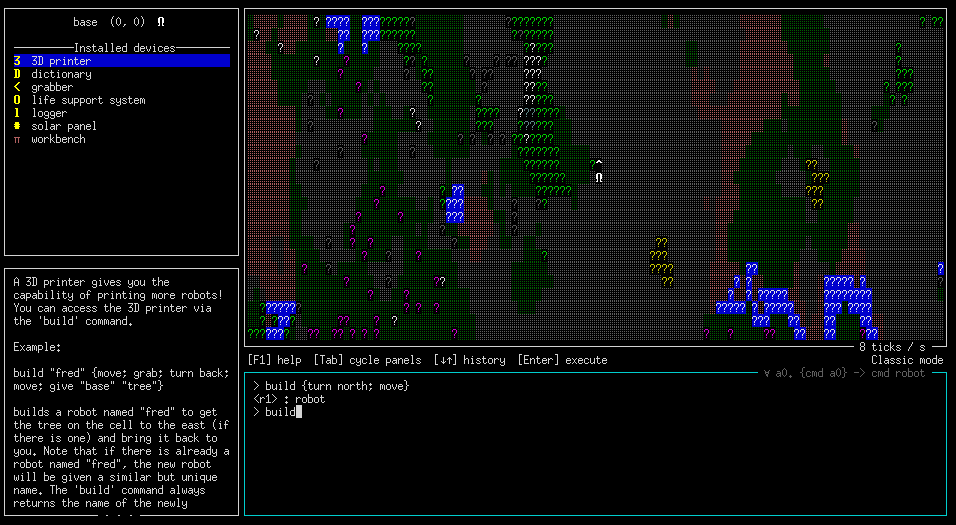
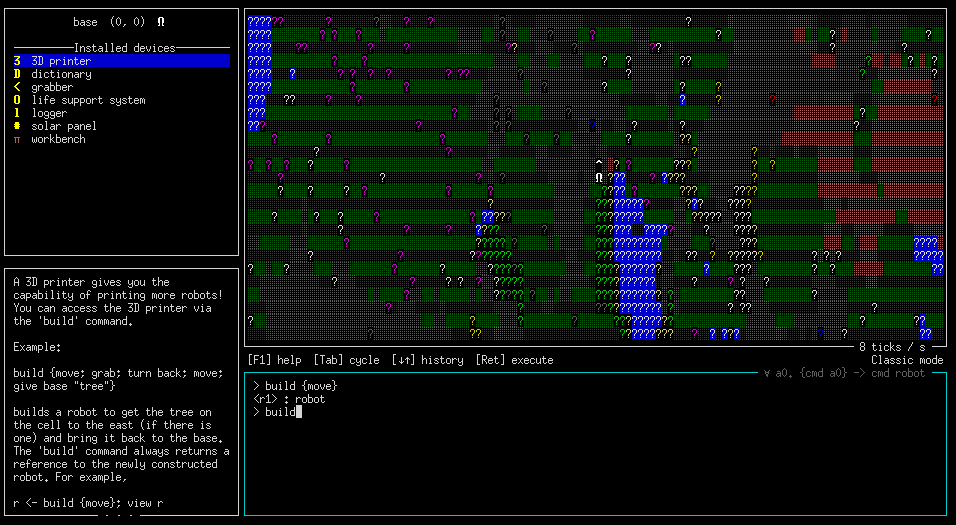
put base in a 32x32 patch with all necessary starting resources (#412)
Fixes #385 .  Note, we will need to update `TUTORIAL.md` since this changes what world 0 looks like, but I wanted to get some feedback before launching into updating that.

diff --git a/TUTORIAL.md b/TUTORIAL.md
@@ -251,9 +251,9 @@ which you may have noticed in the recently viewed robot's inventory.
 You can `scan` items in the world to learn about them, and later
 `upload` what you have learned to the base.
 
-Let's build a robot to learn about those green `?` things to the west:
+Let's build a robot to learn about those green `?` things to the south:
 ```
-build {turn left; m4; move; scan forward; turn back; m4; upload base}
+build {turn back; m; scan forward; upload base}
 ```
 The `turn` command we used to turn the robot takes a direction as an
 argument, which can be either a relative direction (`forward`, `back`,
@@ -285,14 +285,14 @@ Getting some resources
 
 So those tree things look like they might be useful.  Let's get one!
 ```
-build {turn west; m8; thing <- grab; turn back; m8; give base thing }
+build {turn back; m2; thing <- grab; turn back; m2; give base thing }
 ```
 You can see that the
 `grab` command returns the name of the thing it grabbed, which is
 especially helpful when grabbing something unknown. (In this case we
-also could have just written `...; grab; ...; give "base" "tree"; ...`.)
+also could have just written `...; grab; ...; give base "tree"`.)
 
-You should see a robot head west from your base, grab a tree, and
+You should see a robot head south from your base, grab a tree, and
 return to the base.  If all works properly, after the newly built
 robot executes the `give` command, the number next to the `tree` entry
 in your inventory should turn from 0 to 1.  Note that in this case, we
@@ -349,14 +349,14 @@ any devices that will be necessary to execute it.  (It is also
 possible to manually install devices with the `install` command.)  So
 let's type the following:
 ```
-crasher <- build {setname "crasher"; log "hi!"; turn back; move; grab; move}
+crasher <- build {setname "crasher"; log "hi!"; turn left; move; grab; move}
 ```
 (The `setname "crasher"` command is not strictly necessary, but will
 help us understand the logs we look at later --- otherwise the log
 entries would be indexed by some randomly generated robot name.)  The
 world should now look something like the below.  Notice that the
 `logger` is gone from your inventory---it was automatically installed
-on `crasher`.  Notice also that `crasher` only moved one unit south,
+on `crasher`.  Notice also that `crasher` only moved one unit west,
 even though we told it to move two steps!  What went wrong?
 
 ![Let's crash a robot!](images/tutorial/crasher.png)
@@ -386,9 +386,9 @@ the `upload` command, which we have seen before.  In addition to
 uploading knowledge about entities, it turns out that it also uploads
 the log from a `logger`.
 ```
-build {turn left; m8; m; thing <- grab; turn back; m8; m; give base thing}
+build {turn back; m4; thing <- grab; turn back; m4; give base thing}
 make "log"; make "logger"
-build {setname "salvager"; turn back; move; log "salvaging..."; salvage; turn back; move; upload base}
+build {setname "salvager"; turn left; move; log "salvaging..."; salvage; turn back; move; upload base}
 ```
 The world should now look something like this:
 
